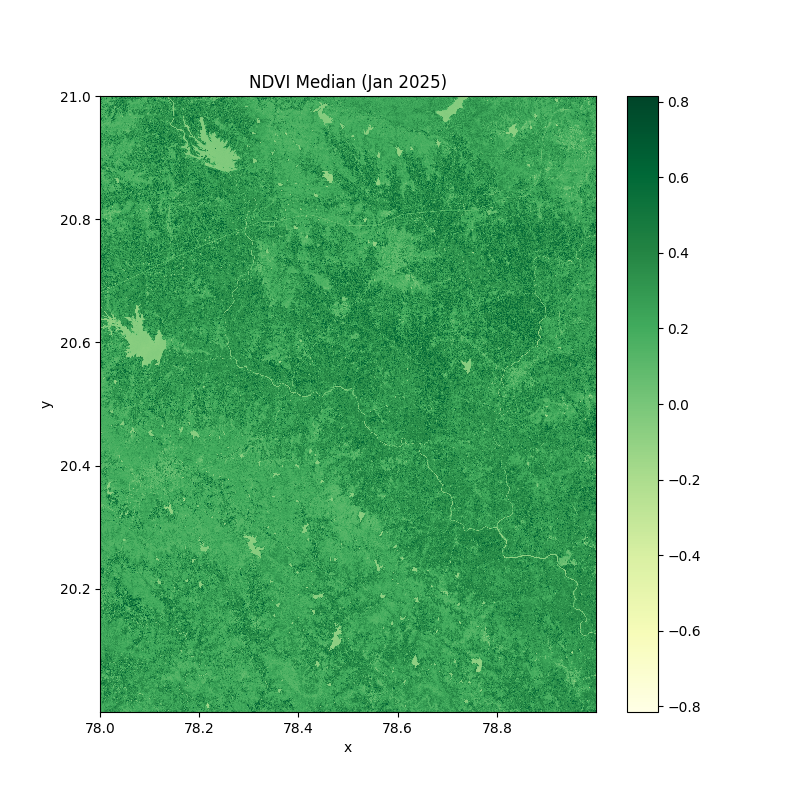
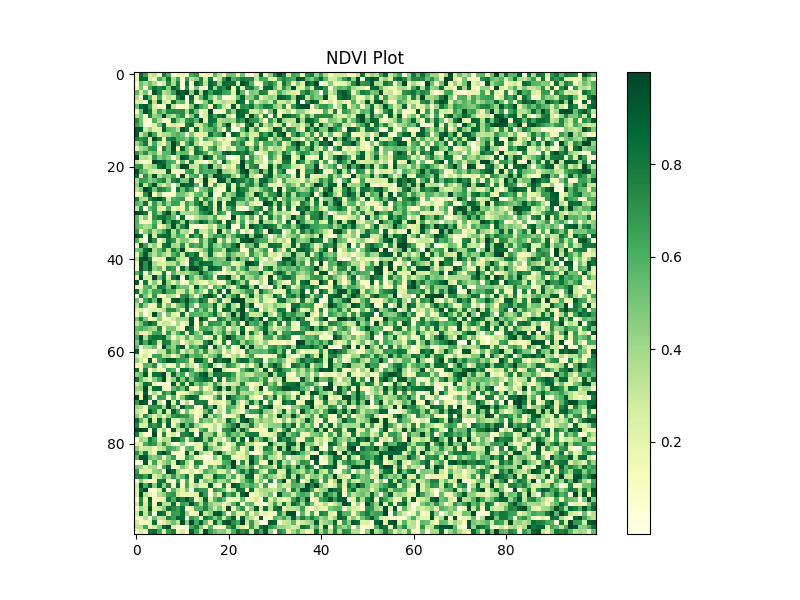
redirection successful

diff --git a/templates/predict_plant.html b/templates/predict_plant.html
@@ -31,7 +31,7 @@
         {% endif %}
     </div>
 
-    <a href="/" class="btn">Back to Home</a>
+    <a href="{{ url_for('welcome') }}" class="btn">Back to Home</a>
 
 </body>
 </html>

diff --git a/templates/recommend_crop.html b/templates/recommend_crop.html
@@ -32,7 +32,7 @@
         {% endif %}
     </div>
 
-    <a href="/" class="btn">Back to Home</a>
+    <a href="{{ url_for('welcome') }}" class="btn">Back to Home</a>
 
 </body>
 </html>

diff --git a/templates/ndvi.html b/templates/ndvi.html
@@ -38,7 +38,8 @@
         </div>
     </div>
 
-    <a href="/" class="btn">Back to Home</a>
+    <a href="{{ url_for('welcome') }}" class="btn">Back to Home</a>
+
 
 </body>
 </html>

diff --git a/main_sat.py b/main_sat.py
@@ -1,39 +1,90 @@
-# main_sat.py
+import os
+import numpy as np
+import matplotlib.pyplot as plt
+import xarray as xr
 
 # Set Matplotlib backend to Agg (suitable for non-GUI environments)
 import matplotlib
 matplotlib.use('Agg')
 
-import os
-import matplotlib.pyplot as plt
-import xarray as xr
-
 def get_ndvi_paths():
+    """
+    Main function to calculate NDVI, generate the plot, and save the data as NetCDF.
+    """
     # Ensure output directory exists
     output_dir = 'static/ndvi_output'
     os.makedirs(output_dir, exist_ok=True)
 
-    # Your NDVI calculation logic here
-    # For example, using some sample logic:
-    ndvi = compute_ndvi_somehow()  # Replace with your actual NDVI computation logic
+    # Step 1: Compute NDVI data
+    ndvi_data = compute_ndvi_somehow()  # Replace with your actual NDVI computation logic
 
-    # Save NDVI plot
+    # Step 2: Plot and save the NDVI image
     plot_path = os.path.join(output_dir, 'ndvi_plot.png')
-    plt.figure(figsize=(8, 6))
-    ndvi.plot(cmap='YlGn')
-    plt.title("NDVI Plot")
-    plt.savefig(plot_path)
+    save_ndvi_plot(ndvi_data, plot_path)
 
-    # Save NDVI data to NetCDF file
+    # Step 3: Save the NDVI data to a NetCDF file
     netcdf_path = os.path.join(output_dir, 'ndvi_output.nc')
-    ndvi.to_netcdf(netcdf_path)
+    save_ndvi_to_netcdf(ndvi_data, netcdf_path)
 
+    # Return paths to the generated plot and NetCDF file
     return {
         "ndvi_plot": plot_path,  # Path to the NDVI plot image
         "ndvi_netcdf": netcdf_path  # Path to the NDVI NetCDF file
     }
 
+
 def compute_ndvi_somehow():
-    # Replace with actual logic to compute NDVI (using satellite data, etc.)
-    # This is just a placeholder function.
-    return xr.DataArray([1, 2, 3])  # Example placeholder
+    """
+    Compute the NDVI (Normalized Difference Vegetation Index) using satellite data or sample logic.
+    This function should be replaced with actual NDVI computation logic using appropriate data.
+
+    Returns:
+        np.ndarray: A 2D numpy array representing the NDVI values.
+    """
+    # Example: Generate random NDVI data (replace with actual NDVI computation)
+    ndvi_data = np.random.rand(100, 100)  # Random data for illustration purposes
+    return ndvi_data
+
+
+def save_ndvi_plot(ndvi_data, plot_path):
+    """
+    Save the NDVI plot to a file as a PNG image.
+
+    Args:
+        ndvi_data (np.ndarray): 2D array of NDVI values.
+        plot_path (str): Path where the NDVI plot image will be saved.
+    """
+    plt.figure(figsize=(8, 6))
+
+    # Use imshow for 2D array visualization with colormap
+    im = plt.imshow(ndvi_data, cmap='YlGn')  # 'YlGn' colormap (Green shades for NDVI)
+    plt.colorbar(im)  # Optional: Add a colorbar to show NDVI scale
+    plt.title("NDVI Plot")
+    
+    # Save the plot
+    plt.savefig(plot_path)
+    plt.close()  # Close the plot to free resources
+
+
+def save_ndvi_to_netcdf(ndvi_data, netcdf_path):
+    """
+    Save the NDVI data to a NetCDF file.
+
+    Args:
+        ndvi_data (np.ndarray): 2D array of NDVI values.
+        netcdf_path (str): Path where the NetCDF file will be saved.
+    """
+    # Convert the NDVI data into an xarray.DataArray
+    ndvi_xr = xr.DataArray(ndvi_data, dims=["lat", "lon"], 
+                            coords={"lat": np.arange(ndvi_data.shape[0]), 
+                                    "lon": np.arange(ndvi_data.shape[1])})
+
+    # Save the NDVI DataArray to a NetCDF file
+    ndvi_xr.to_netcdf(netcdf_path)
+
+
+# Main entry point when running the script
+if __name__ == "__main__":
+    ndvi_paths = get_ndvi_paths()
+    print(f"NDVI plot saved at: {ndvi_paths['ndvi_plot']}")
+    print(f"NDVI data saved in NetCDF format at: {ndvi_paths['ndvi_netcdf']}")

diff --git a/app.py b/app.py
@@ -1,4 +1,4 @@
-from flask import Flask, render_template, request, redirect, url_for
+from flask import Flask, render_template, request, redirect, url_for, session 
 import os
 import joblib
 import numpy as np
@@ -12,7 +12,11 @@ import matplotlib.pyplot as plt  # <-- Add this import for plotting
 import xarray as xr
 
 
+
 app = Flask(__name__)
+
+import secrets
+app.secret_key = os.environ.get('FLASK_SECRET_KEY', secrets.token_hex(16))
 
 # Load the crop recommendation model
 crop_model = joblib.load('crop_recommendation_model.pkl')
@@ -67,14 +71,20 @@ def login():
         password = request.form['password']
 
         if username and password == '1234':  # simple demo check
+            # Store username in session
+            session['username'] = username
             return redirect(url_for('welcome', username=username))
         else:
             return render_template('login.html', error="Invalid username or password")
 
     return render_template('login.html')
 
-@app.route('/welcome/<username>')
-def welcome(username):
+@app.route('/welcome')
+def welcome():
+    # Fetch username from session
+    username = session.get('username', None)  # None is the default value if username isn't found
+    if username is None:
+        return redirect(url_for('login'))  # If the user is not logged in, redirect to login
     return render_template('welcome.html', username=username)
 
 @app.route('/predict_plant', methods=['GET', 'POST'])
